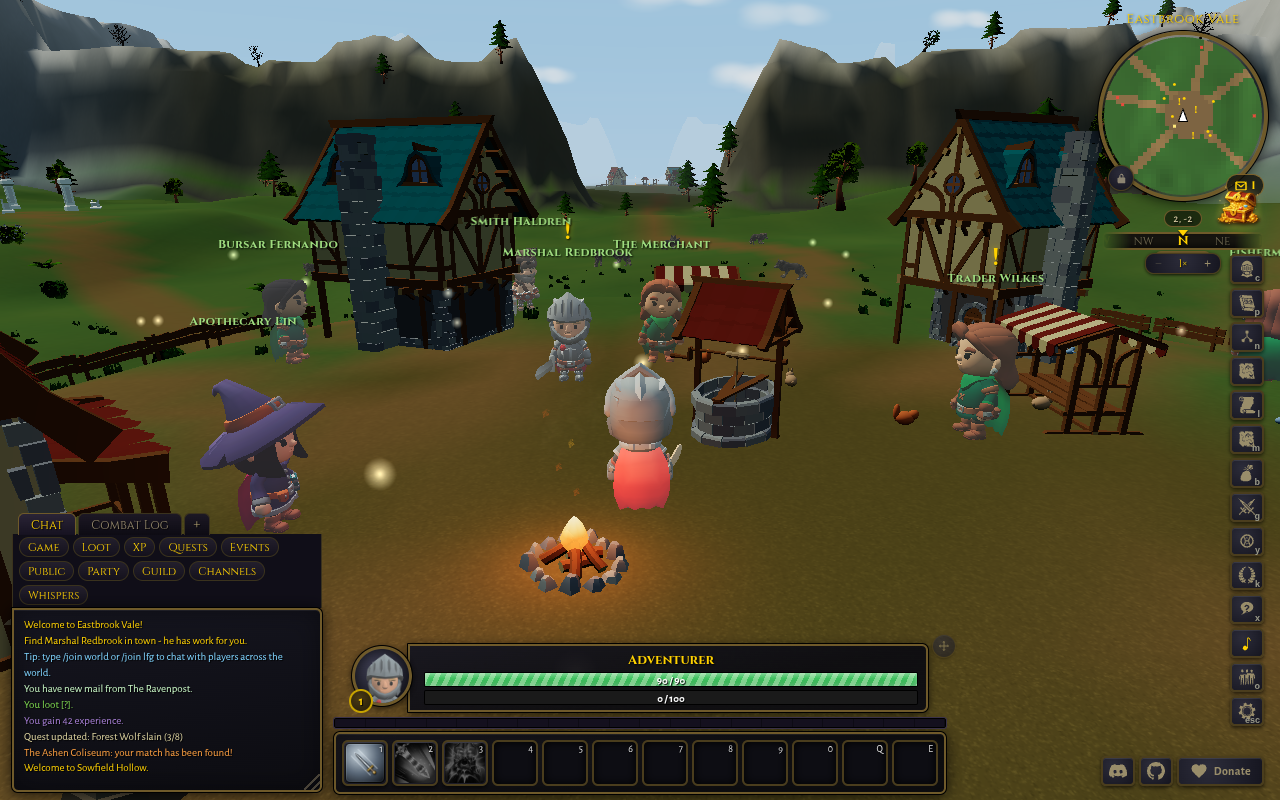
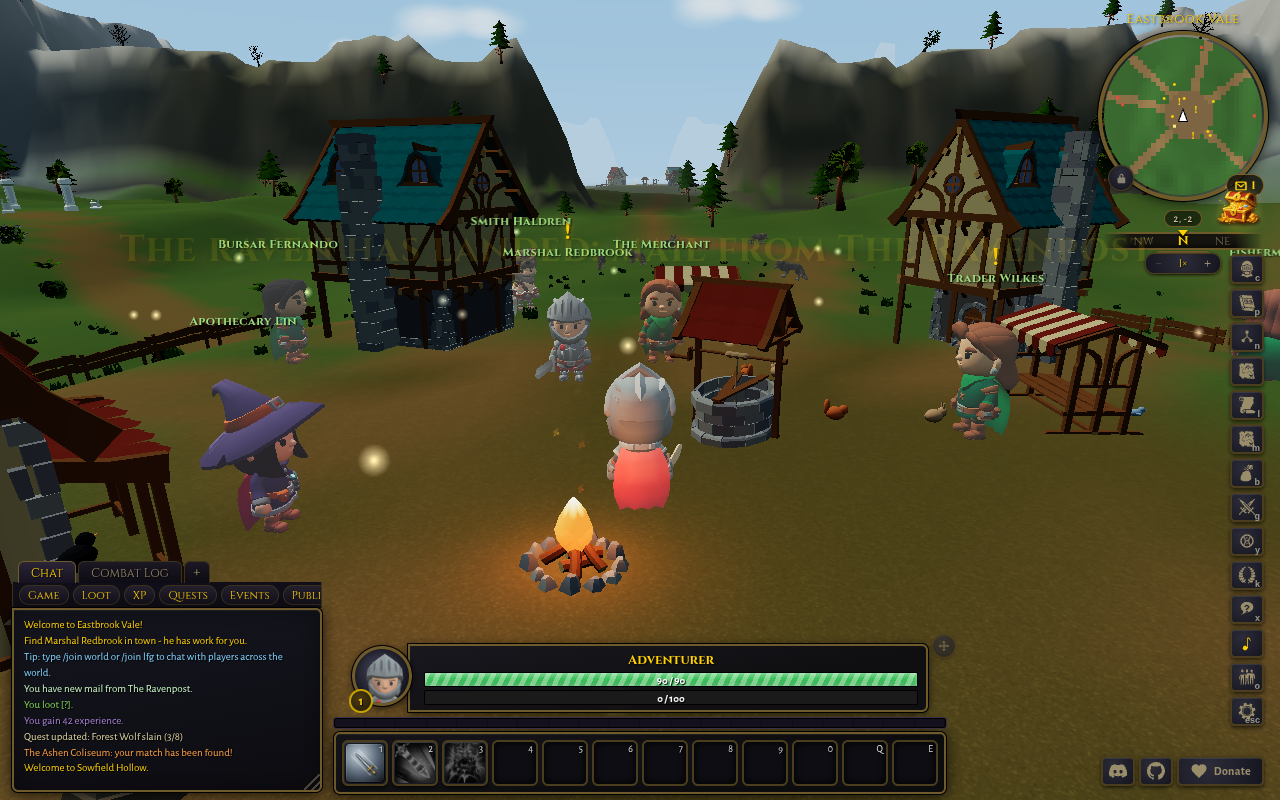
fix(ui): mirror chat category strip to play.html, keep it one scrollable row
Address review on #1670:
- The #chat-category-strip div was only added to index.html, so
  renderChatCategoryStrip's early return silently dropped the whole
  feature on play.html, the canonical /play entry. Mirrored the div and
  added a parity guard (index.html and play.html both carry the id),
  alongside the existing .window panel parity guard in
  entry_window_parity.test.ts.
- Changed the strip from a wrapping two-row layout to a single nowrap
  row that scrolls horizontally, mirroring #chatlog-tabs, so ten
  category pills never eat a second row of the chat log on a narrow
  desktop window or a landscape phone. Wired the same wheel-to-
  horizontal-scroll behavior chatlog-tabs already has.
- Pinned the mobile 40px touch floor for .chat-category-toggle (it was
  previously only asserted in the PR description, not a test).
- Regenerated the PR screenshots against the new single-row layout.

diff --git a/src/ui/hud.ts b/src/ui/hud.ts
@@ -996,6 +996,10 @@ export class Hud {
   // Bind the tab-strip wheel-to-horizontal-scroll listener exactly once (renderChatTabs
   // rebuilds the strip's children but the bar element itself persists).
   private chatTabsWheelBound = false;
+  // Bind the category-strip wheel-to-horizontal-scroll listener exactly once,
+  // mirroring chatTabsWheelBound above (renderChatCategoryStrip rebuilds the
+  // strip's children but the strip element itself persists).
+  private chatCategoryStripWheelBound = false;
   // The control that opened the shared #ctx-menu (the chat "+" button), so the
   // outside-click closer can defer to that opener's own toggle click. Cleared on
   // every close path (closeContextMenu + item activation).
@@ -2392,6 +2396,18 @@ export class Hud {
   private renderChatCategoryStrip(): void {
     const strip = document.getElementById('chat-category-strip');
     if (!strip) return;
+    if (!this.chatCategoryStripWheelBound) {
+      this.chatCategoryStripWheelBound = true;
+      strip.addEventListener(
+        'wheel',
+        (ev) => {
+          if (ev.deltaY === 0 || strip.scrollWidth <= strip.clientWidth) return;
+          ev.preventDefault();
+          strip.scrollLeft += ev.deltaY;
+        },
+        { passive: false },
+      );
+    }
     strip.innerHTML = '';
     for (const cat of CHAT_CATEGORIES) {
       const btn = document.createElement('button');

diff --git a/tests/chat_tab_strip.test.ts b/tests/chat_tab_strip.test.ts
@@ -53,3 +53,27 @@ describe('chat tab strip layout (issue #1365)', () => {
     expect(block(mobile, 'body.mobile-touch .chat-tab')).toMatch(/min-height:\s*40px/);
   });
 });
+
+describe('chat category filter strip layout (issue #1670)', () => {
+  it('stays a single nowrap row that scrolls horizontally, same as #chatlog-tabs', () => {
+    const b = block(hud, '.chat-category-strip');
+    expect(b).toMatch(/flex-wrap:\s*nowrap/);
+    expect(b).toMatch(/overflow-x:\s*auto/);
+  });
+
+  it('mobile category toggles meet the 40px touch floor', () => {
+    expect(block(mobile, 'body.mobile-touch .chat-category-toggle')).toMatch(/min-height:\s*40px/);
+  });
+
+  // Regression: the strip shipped in index.html but not play.html, so
+  // renderChatCategoryStrip's early return silently dropped the whole
+  // feature on the canonical /play entry. Both entries hand-carry the same
+  // chat DOM (see tests/entry_window_parity.test.ts for the equivalent
+  // .window panel guard), so pin this id in both too.
+  it('index.html and play.html both carry #chat-category-strip', () => {
+    const index = readFileSync(new URL('../index.html', import.meta.url), 'utf8');
+    const play = readFileSync(new URL('../play.html', import.meta.url), 'utf8');
+    expect(index).toContain('id="chat-category-strip"');
+    expect(play).toContain('id="chat-category-strip"');
+  });
+});

diff --git a/src/styles/hud.css b/src/styles/hud.css
@@ -1641,15 +1641,24 @@
     display: none;
   }
   /* All-view category filter strip (issue #1670): hidden except on the All
-     tab, where it thins the combined view without touching channel tabs. */
+     tab, where it thins the combined view without touching channel tabs.
+     A single nowrap row that scrolls horizontally on overflow, mirroring
+     #chatlog-tabs above, so ten category pills never eat a second row of
+     the (already short) chat log. */
   .chat-category-strip {
     display: none;
-    flex-wrap: wrap;
+    flex-wrap: nowrap;
+    overflow-x: auto;
+    overflow-y: hidden;
+    scrollbar-width: none;
     gap: 4px;
     padding: 3px 6px;
     background: #100e18;
     border-left: 1px solid #3a321d;
     border-right: 1px solid #3a321d;
+  }
+  .chat-category-strip::-webkit-scrollbar {
+    display: none;
   }
   .chat-category-strip.active {
     display: flex;

diff --git a/play.html b/play.html
@@ -304,6 +304,9 @@
       <!-- Tabs (built-in Chat/Combat + player-added channel tabs + "add") are
            rendered by the HUD (hud.ts initChatTabs); this stays empty. -->
       <div id="chatlog-tabs" role="tablist"></div>
+      <!-- All-view category filter strip (issue #1670): rendered by hud.ts
+           (renderChatCategoryStrip); visible only while the All tab is active. -->
+      <div id="chat-category-strip" class="chat-category-strip"></div>
       <div id="chatlog-frame" class="panel">
         <!-- aria-live="off" overrides role="log"'s IMPLICIT polite so this pane (which
              goes display:none on the combat tab) does not double-announce alongside the
